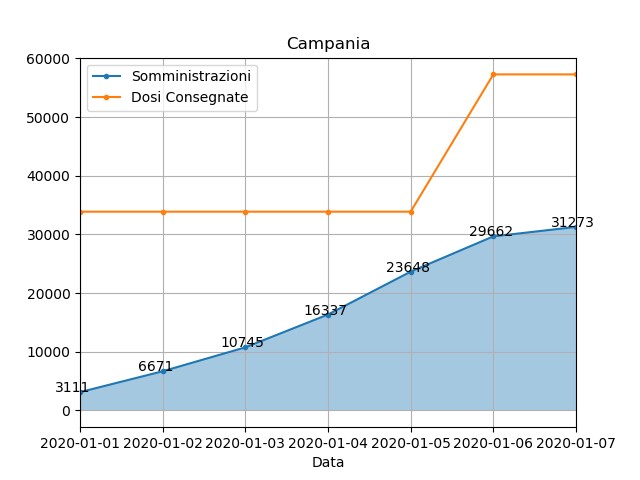
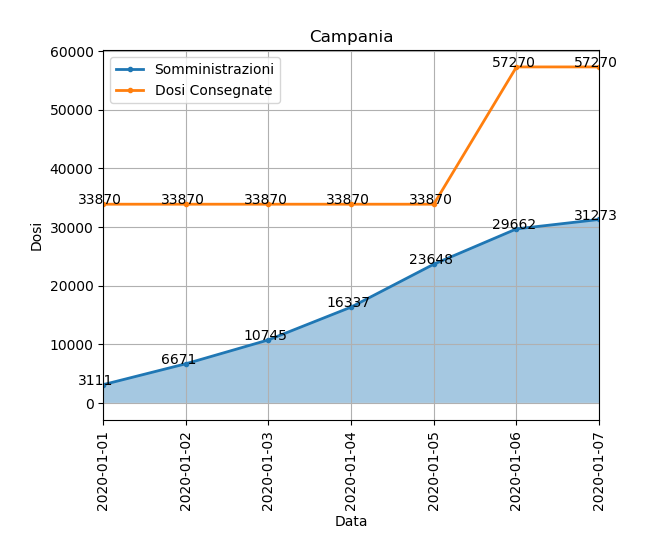
update 07 january and refactor plot

diff --git a/plot_regions.py b/plot_regions.py
@@ -16,16 +16,26 @@ def plotRegions(path, dest_path):
         filename_w_ext = os.path.basename(x)
         filename, file_extension = os.path.splitext(filename_w_ext)
 
-        df.plot(x='Data', y=['Somministrazioni', 'Dosi Consegnate'], kind='line', title=filename, grid=True,
-                xticks=np.arange(len(df['Data'])),
+        date = df['Data'].copy()
+
+        for x in range(0,len(date)):
+            date[x] = date[x].strip("2020-")
+
+        ax = df.plot(x='Data', y=['Somministrazioni', 'Dosi Consegnate'], kind='line', title=filename, grid=True,
+                xticks=np.arange(len(df['Data'])),  lw = 2, rot = 90,
                 legend=True, style='.-')
+        ax.set_xlabel("Data")
+        ax.set_ylabel("Dosi")
 
         for i, txt in enumerate(df['Somministrazioni']):
             plt.text(i - 0.3, txt, txt)
 
+        for i, txt in enumerate(df['Dosi Consegnate']):
+            plt.text(i - 0.3, txt, txt)
+
         plt.fill_between(np.arange(len(df['Data'])), df['Somministrazioni'], alpha=0.4)
 
-        plt.savefig(fname=dest_path + filename + '.png')
+        plt.savefig(fname=dest_path + filename + '.png',pad_inches = 0.3,bbox_inches= 'tight')
         #plt.show()
 
         print(x)
